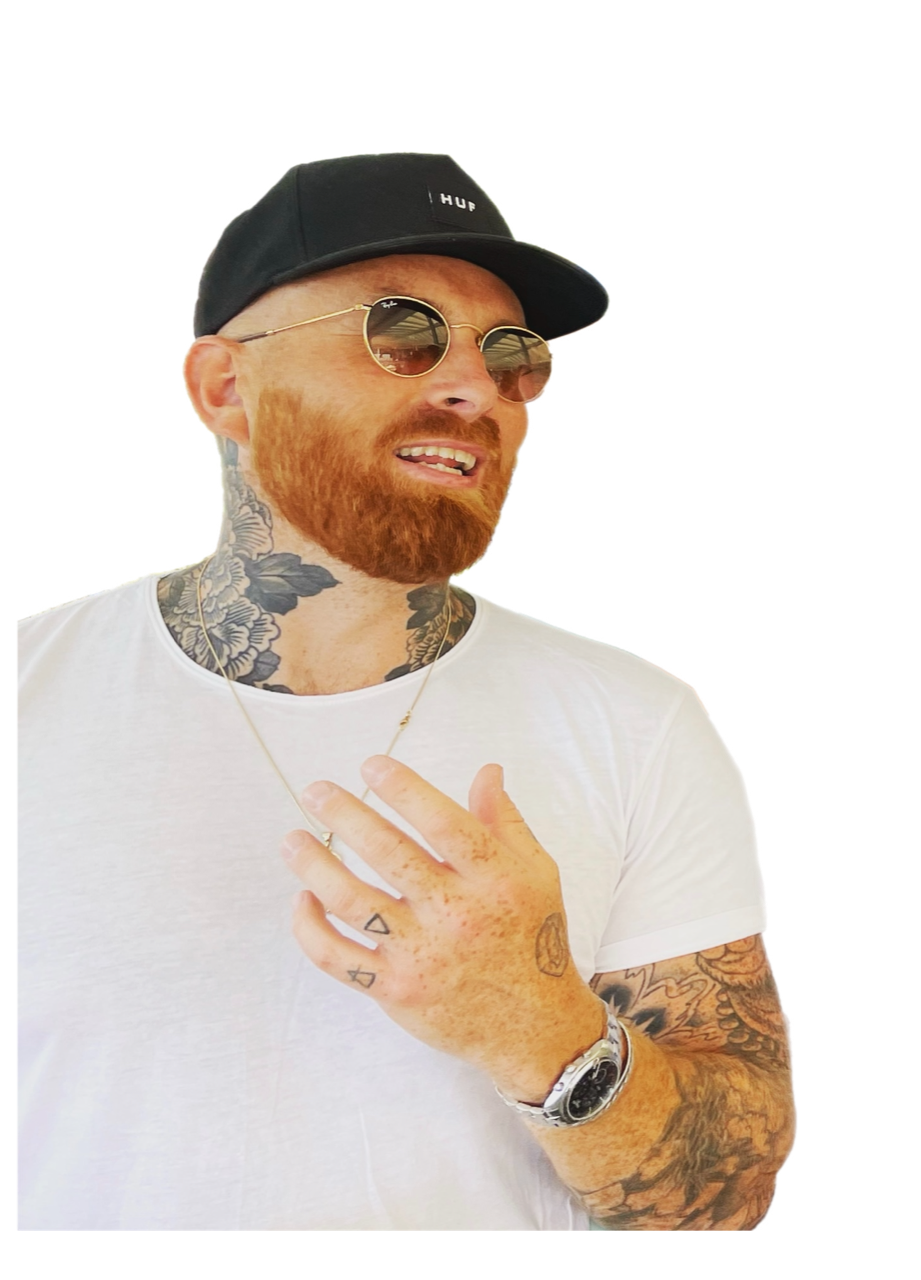
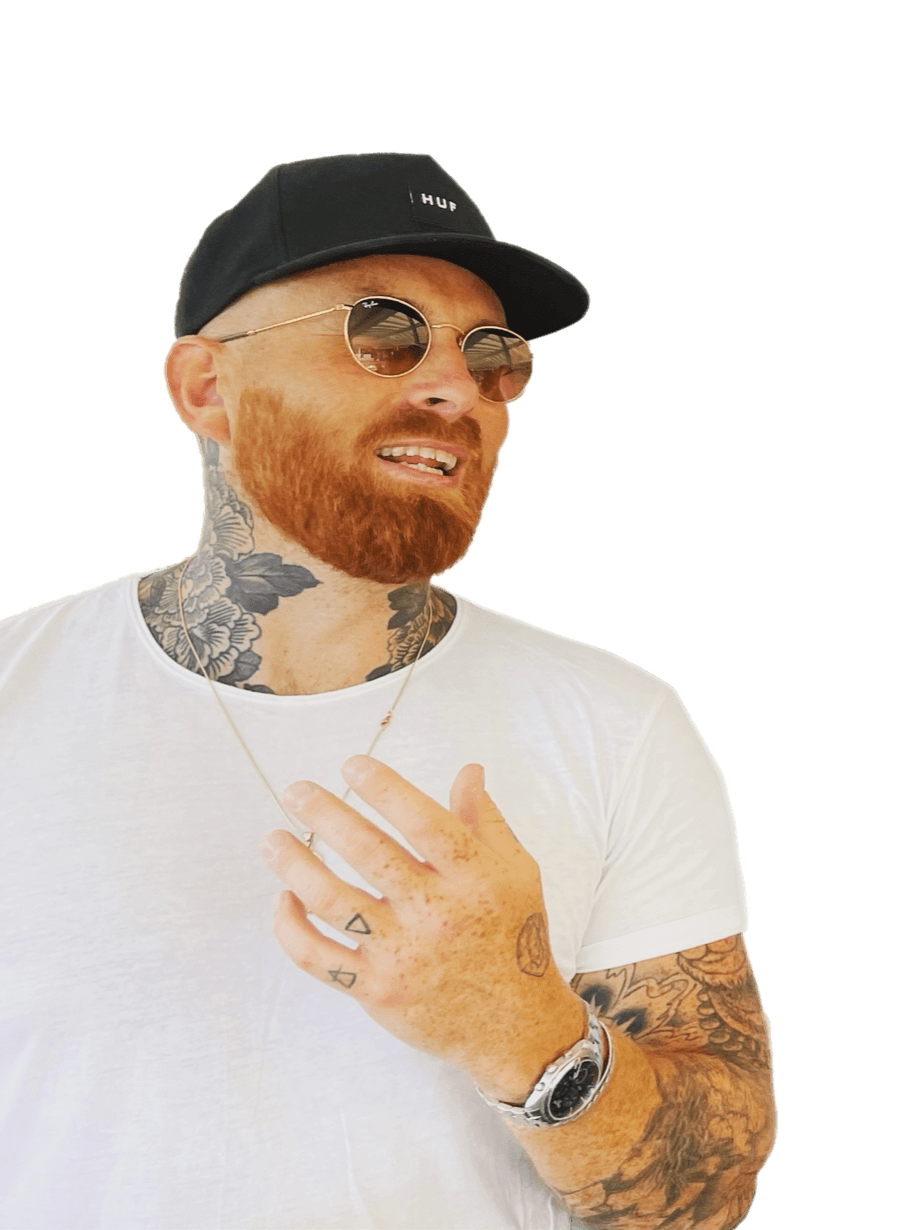
Changed main image on index from a video to css animations. Fixed responsiveness

Changed region(s): [[0.0, 0.1236, 0.8692, 1.0], [0.2794, 0.1236, 0.4035, 0.1545], [0.4035, 0.0927, 0.4656, 0.1236]]

diff --git a/assets/css/style.css b/assets/css/style.css
@@ -68,6 +68,56 @@ a.nav-link.colour.active {
   padding-left: 0;
   padding-bottom: 0;
 }
+
+.vid-div {
+  position: relative;
+  width: 50%;
+  height: 90vh;
+  overflow: hidden;
+}
+
+#background {
+  min-width: 100%;
+  min-height: 100%;
+  top: 0;
+  left: 0;
+  width: 200%; /* Adjust the width to cover a larger area */
+  height: 200%; /* Adjust the height to cover a larger area */
+  animation: moveBackground 20s ease-in-out infinite; /* Adjust the duration and timing function as needed */
+  background: linear-gradient(
+    -45deg,
+    rgba(217, 199, 179, 0.7) 20%,
+    /* Adjust the alpha (opacity) for blur effect */ rgba(236, 221, 212, 0.7)
+      25%,
+    rgba(236, 221, 212, 0.7) 50%,
+    rgba(217, 199, 179, 0.7) 55%,
+    rgba(217, 199, 179, 0.7) 70%,
+    rgba(236, 221, 212, 0.7) 75%,
+    rgba(236, 221, 212, 0.7) 100%
+  );
+  filter: blur(10px); /* Adjust the blur amount as needed */
+}
+
+@keyframes moveBackground {
+  0%,
+  100% {
+    transform: translate(0, 0);
+  }
+  50% {
+    transform: translate(
+      -50%,
+      -50%
+    ); /* Adjust the percentage for the desired movement */
+  }
+}
+
+#front-image {
+  position: absolute;
+  bottom: 0%;
+  left: 0%;
+  z-index: 0;
+  width: 75%;
+}
 /*-------Index.html/2 div som skapar en mönster---------*/
 
 .project-div {
@@ -622,11 +672,8 @@ footer {
   .div-container {
     min-width: 100%;
   }
-  .ex-div-right {
-    margin-left: 20px;
-  }
-  .ex-div-left {
-    margin-right: 20px;
+  #front-image {
+    width: 100%;
   }
   .interest-p {
     font-size: 22px;
@@ -738,10 +785,12 @@ footer {
 }
 
 @media (max-width: 1024px) {
-  .theo-vid {
-    border-bottom-right-radius: 25px;
-    padding-top: 10%;
-    box-shadow: none;
+  .vid-div {
+    height: 50vh;
+    margin-top: 20%;
+  }
+  #front-image {
+    width: 70%;
   }
   /* experience.html */
   .wrapper {
@@ -791,10 +840,14 @@ footer {
     display: contents;
   }
   .vid-div {
-    width: 90%;
-    bottom: 84px;
+    width: 70%;
     left: 0px;
-    height: 70%;
+    min-height: 60vh;
+    height: 60vh;
+    margin-top: 0;
+  }
+  #front-image {
+    width: 70%;
   }
   .colour2-div {
     display: none;
@@ -880,6 +933,10 @@ footer {
     height: 50px;
   }
 
+  #front-image {
+    width: 100%;
+  }
+
   .project-info {
     min-height: 0;
   }
@@ -934,7 +991,7 @@ footer {
     border-bottom-right-radius: 25px;
   }
   .vid-div {
-    width: 100%;
+    width: 60%;
     height: 60vh;
   }
   .text-div {
@@ -1036,9 +1093,8 @@ footer {
   /* index.html */
 
   .vid-div {
-    width: 100%;
-    height: 100%;
-    position: unset;
+    min-height: 40%;
+    margin-top: 45px;
   }
   .name-tag {
     font-size: 30px;
@@ -1087,13 +1143,9 @@ footer {
 @media (max-width: 432px) {
   /* index.html */
   .vid-div {
-    width: 100%;
-    height: 60vh;
-    position: absolute;
-  }
-  .theo-vid {
-    width: 65%;
-    padding-top: 0;
+    width: 50%;
+    height: 40%;
+    border-radius: 0 20px 20px 0;
   }
   .vid-div {
     position: absolute;
@@ -1135,8 +1187,8 @@ footer {
 }
 
 @media (max-width: 390px) {
-  .theo-vid {
-    width: 60%;
+  .vid-div {
+    margin-top: 40px;
   }
   .wrapper {
     height: 300vh;
@@ -1171,6 +1223,10 @@ footer {
   /* index.html */
   .home-text {
     font-size: 12px;
+  }
+
+  .project-div {
+    bottom: 5%;
   }
   /* experience.html */
   .wrapper {

diff --git a/index.html b/index.html
@@ -106,11 +106,10 @@
     <section>
       <!--Huvud section på index html som innehåller MP4, namn, information etc-->
       <div class="vid-and-text-div container">
-        <video class="theo-vid" width="450px" autoplay loop muted>
-          <source src="assets/images/me.mp4" type="video/mp4" />
-          <img src="assets/images/me.png" alt="Theo Norris" />
-        </video>
-
+        <div class="vid-div">
+          <div id="background"></div>
+          <img id="front-image" src="assets/images/me.png" alt="Theo Norris" />
+        </div>
         <div class="text-div">
           <h1 class="name-tag">Theo Norris</h1>
           <h2 class="career-tag">Web Developer</h2>
@@ -148,6 +147,7 @@
         >
       </p>
     </footer>
+    <script src="assets/js/script.js"></script>
     <!--Script för bootstrap-->
     <script
       src="https://cdn.jsdelivr.net/npm/bootstrap@5.3.0-alpha1/dist/js/bootstrap.bundle.min.js"
